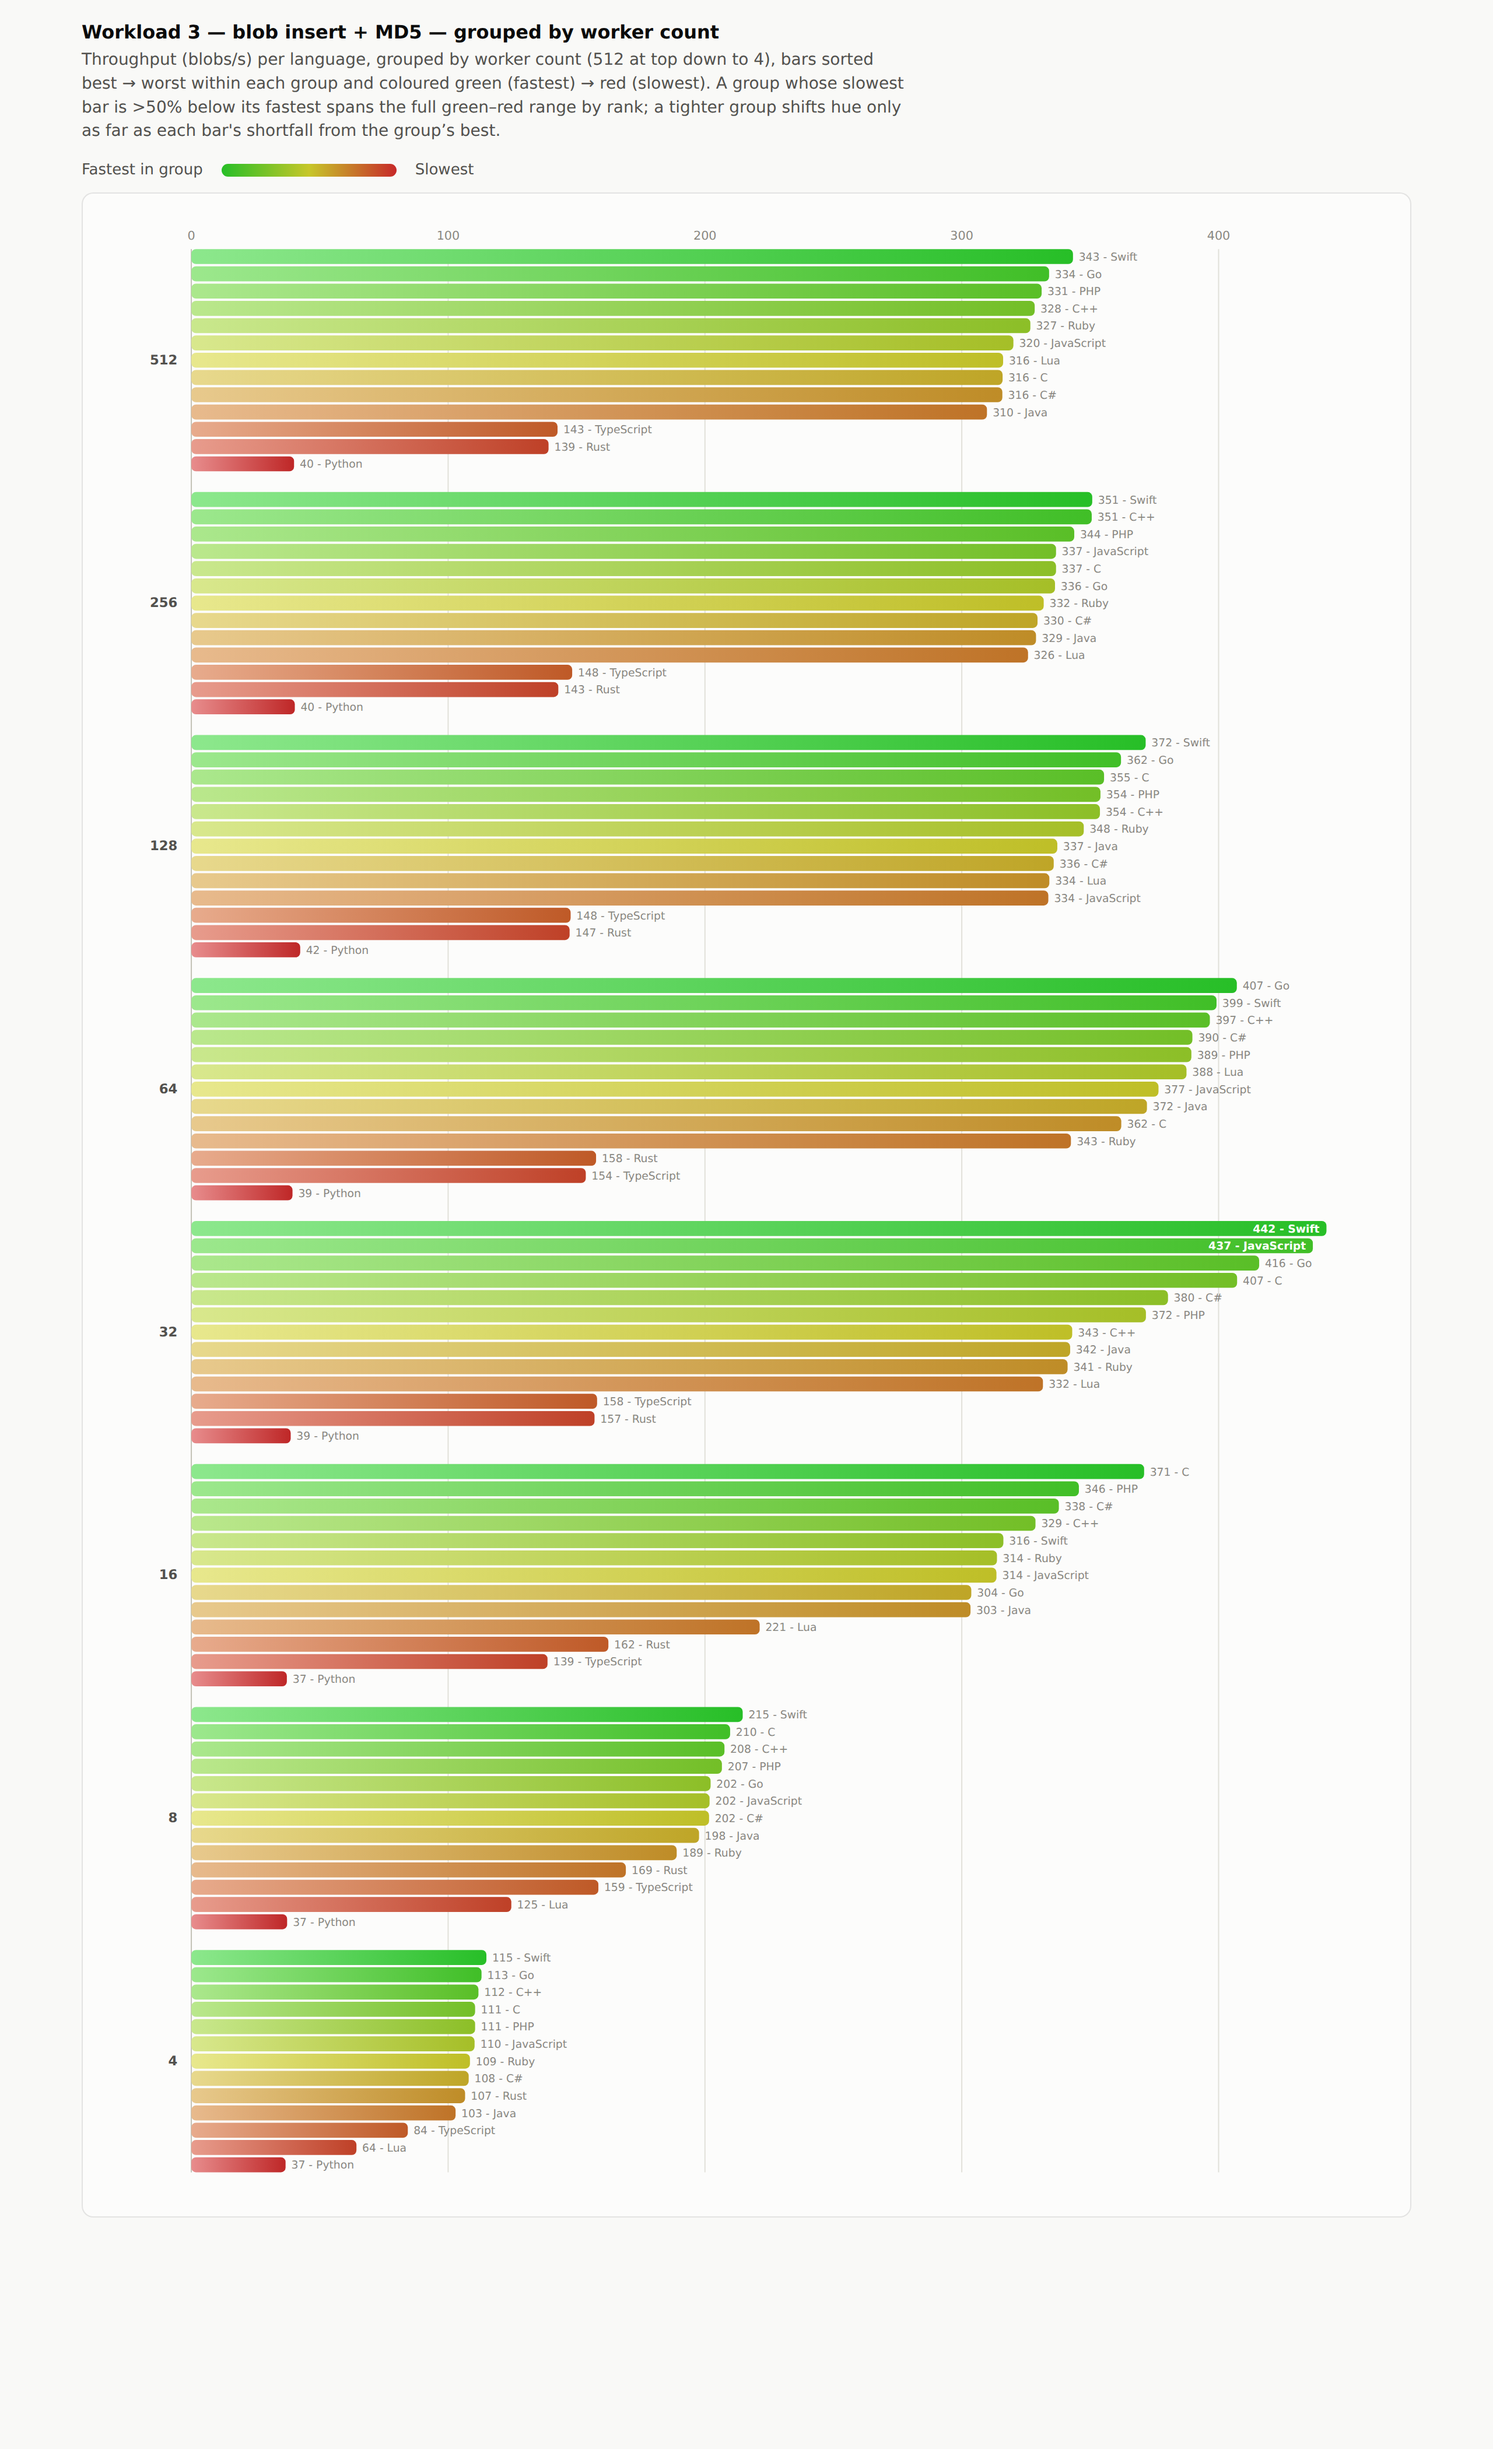
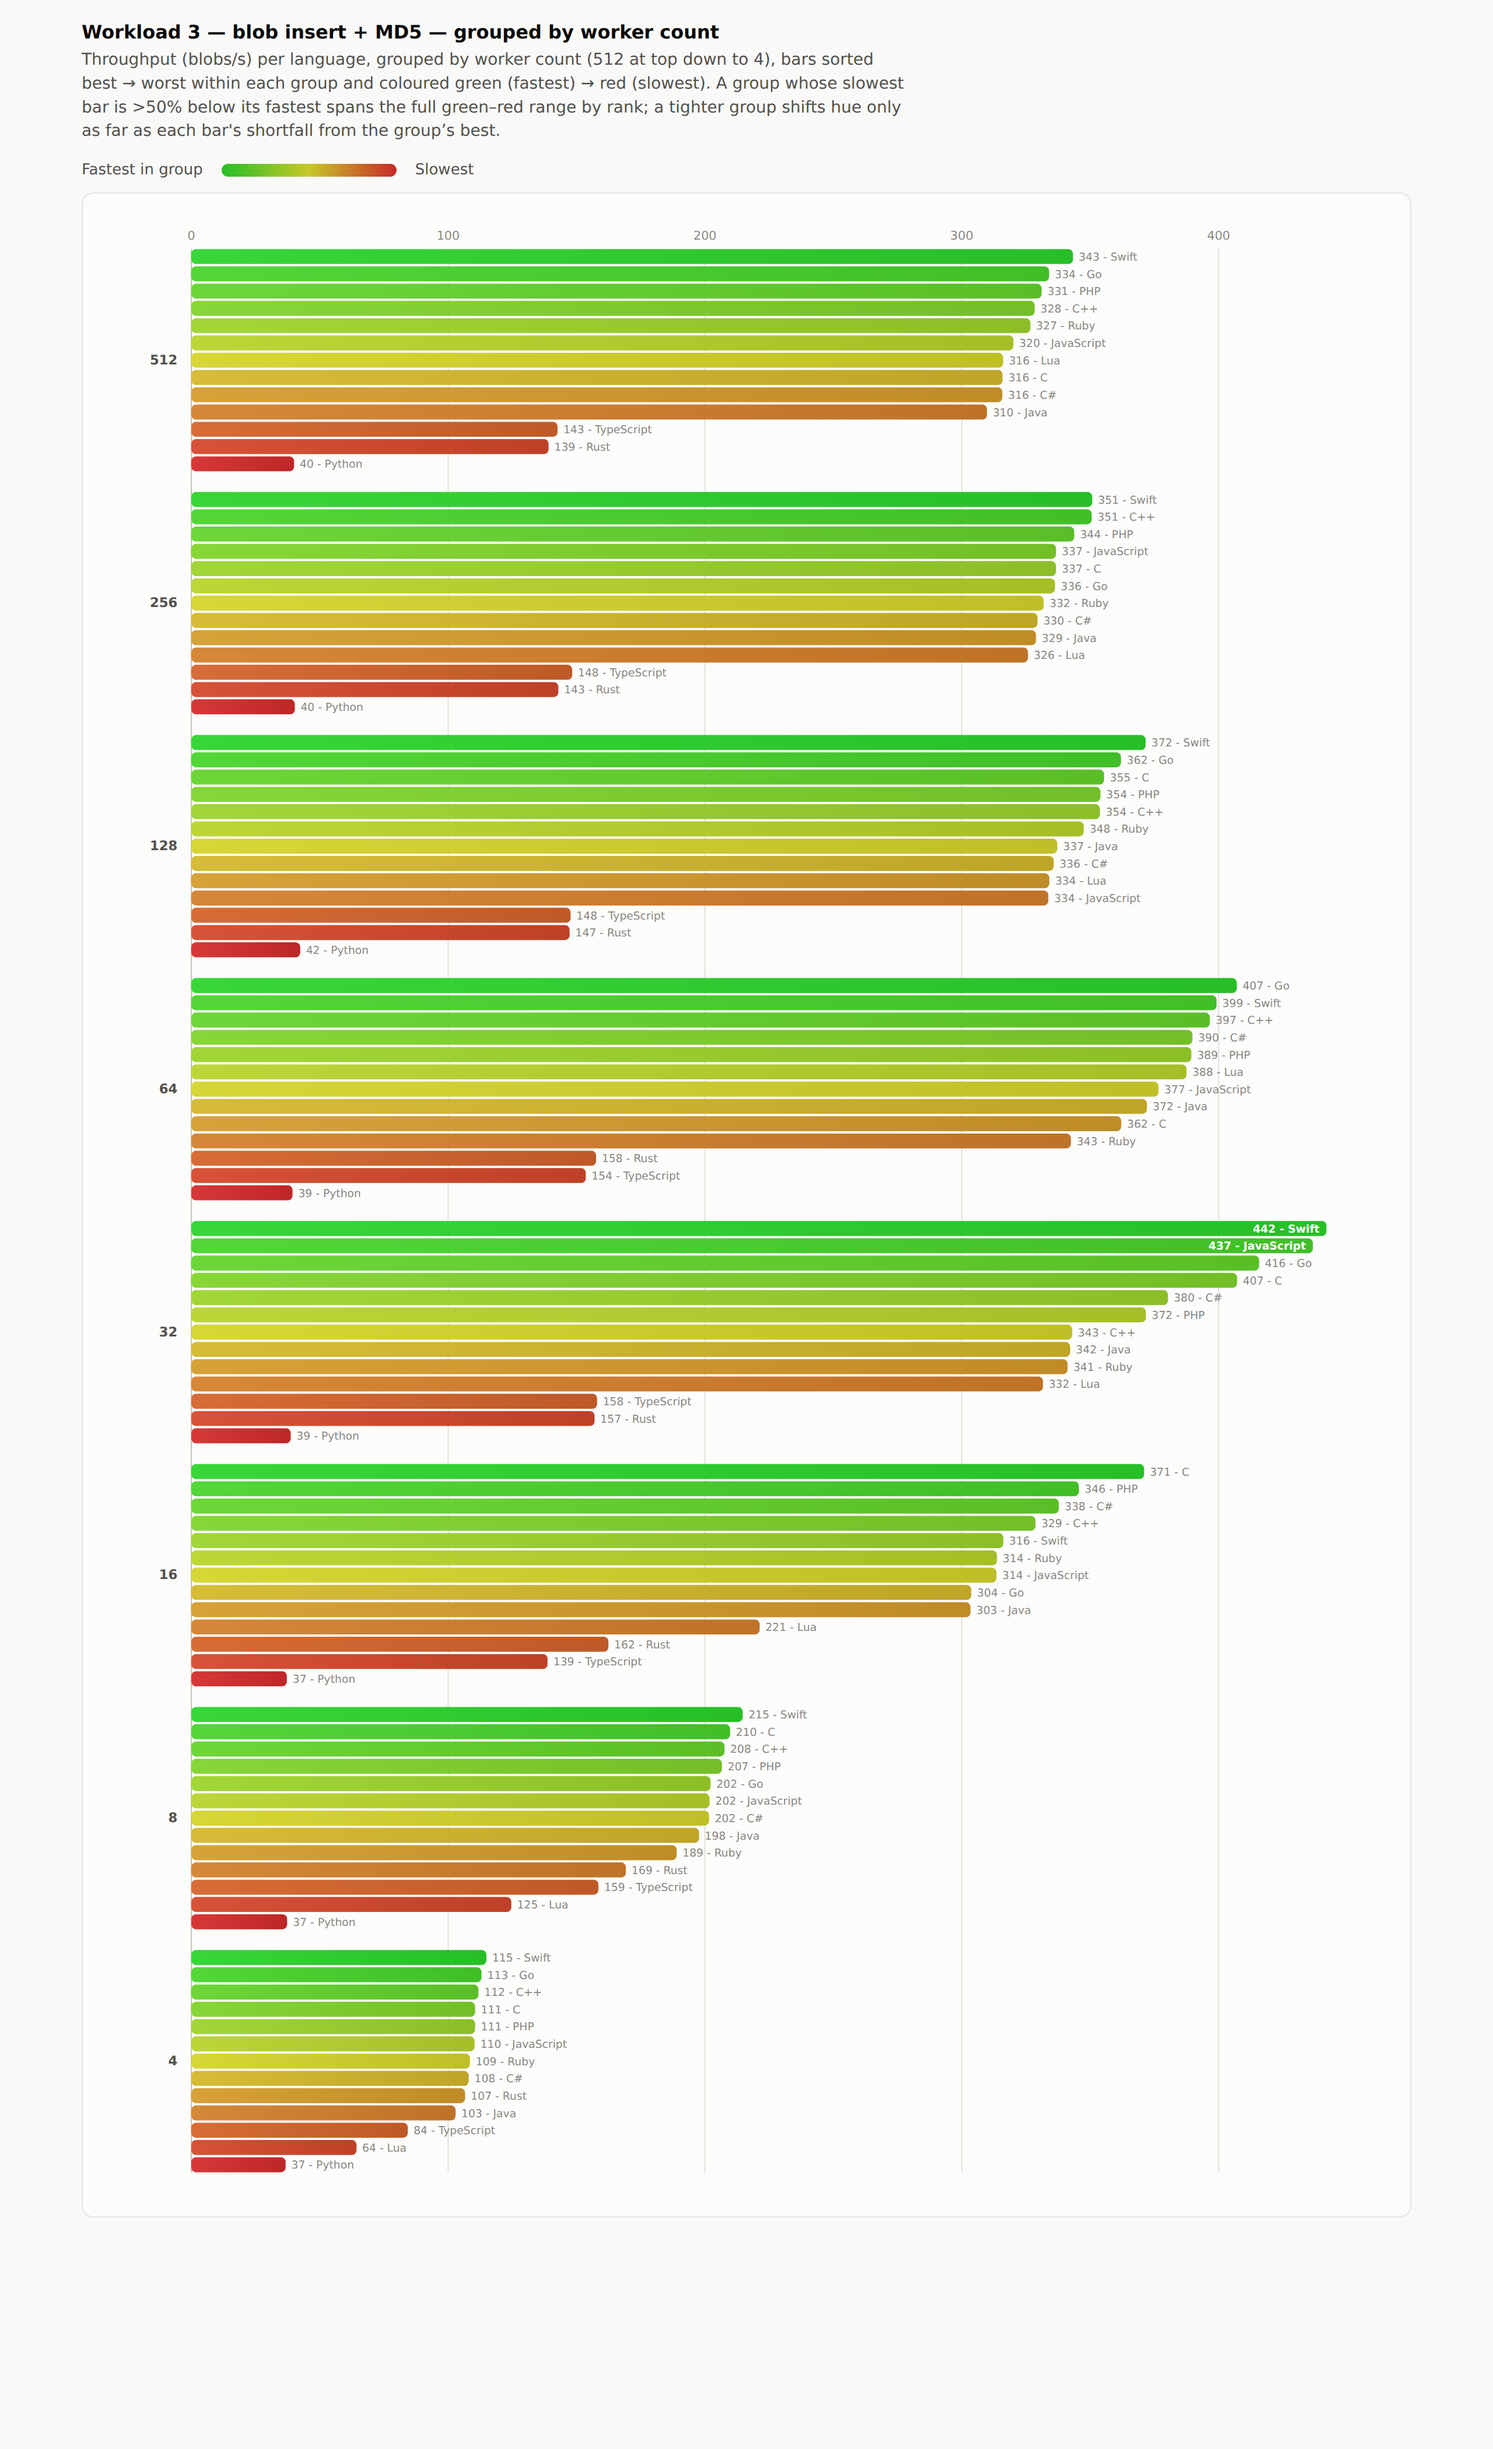
report: darken the left (start) stop of the bar gradient
Lower the gradient start-tint lightness from 73% to 53% so the left side of
each bar reads as a richer shade of its performance hue.

Changed region(s): [[0.125, 0.0936, 0.6875, 0.9045]]

diff --git a/report/report.html b/report/report.html
@@ -441,10 +441,10 @@ const PAGE_BARS = false;
     // run from a 50%-lighter tint at the bar start to the full hue at the tip.
     const gdefs = el("defs", {});
     svg.appendChild(gdefs);
-    // hsl helpers: `h` in degrees (120=green .. 0=red). The lighter stop lifts
-    // lightness halfway to white; both read on light and dark surfaces alike.
+    // hsl helpers: `h` in degrees (120=green .. 0=red). The left (start) stop is
+    // a lighter tint of the full hue; both read on light and dark surfaces alike.
     const perfFill = h => `hsl(${h.toFixed(1)}, 66%, 45%)`;
-    const perfTint = h => `hsl(${h.toFixed(1)}, 66%, 73%)`;
+    const perfTint = h => `hsl(${h.toFixed(1)}, 66%, 53%)`;
     // Throughput gridlines with tick labels along the top.
     for (let k=0; k*step<=yMax+1e-6; k++){ const tv=k*step, x=X(tv);
       svg.appendChild(el("line", { x1: x, x2: x, y1: BM.t, y2: BM.t+BIH, stroke: "var(--grid)", "stroke-width": 1 }));

diff --git a/report/bars.html b/report/bars.html
@@ -377,10 +377,10 @@ const PAGE_BARS = true;
     // run from a 50%-lighter tint at the bar start to the full hue at the tip.
     const gdefs = el("defs", {});
     svg.appendChild(gdefs);
-    // hsl helpers: `h` in degrees (120=green .. 0=red). The lighter stop lifts
-    // lightness halfway to white; both read on light and dark surfaces alike.
+    // hsl helpers: `h` in degrees (120=green .. 0=red). The left (start) stop is
+    // a lighter tint of the full hue; both read on light and dark surfaces alike.
     const perfFill = h => `hsl(${h.toFixed(1)}, 66%, 45%)`;
-    const perfTint = h => `hsl(${h.toFixed(1)}, 66%, 73%)`;
+    const perfTint = h => `hsl(${h.toFixed(1)}, 66%, 53%)`;
     // Throughput gridlines with tick labels along the top.
     for (let k=0; k*step<=yMax+1e-6; k++){ const tv=k*step, x=X(tv);
       svg.appendChild(el("line", { x1: x, x2: x, y1: BM.t, y2: BM.t+BIH, stroke: "var(--grid)", "stroke-width": 1 }));

diff --git a/report/generate_html_report.py b/report/generate_html_report.py
@@ -605,10 +605,10 @@ const PAGE_BARS = __PAGE_BARS__;
     // run from a 50%-lighter tint at the bar start to the full hue at the tip.
     const gdefs = el("defs", {});
     svg.appendChild(gdefs);
-    // hsl helpers: `h` in degrees (120=green .. 0=red). The lighter stop lifts
-    // lightness halfway to white; both read on light and dark surfaces alike.
+    // hsl helpers: `h` in degrees (120=green .. 0=red). The left (start) stop is
+    // a lighter tint of the full hue; both read on light and dark surfaces alike.
     const perfFill = h => `hsl(${h.toFixed(1)}, 66%, 45%)`;
-    const perfTint = h => `hsl(${h.toFixed(1)}, 66%, 73%)`;
+    const perfTint = h => `hsl(${h.toFixed(1)}, 66%, 53%)`;
     // Throughput gridlines with tick labels along the top.
     for (let k=0; k*step<=yMax+1e-6; k++){ const tv=k*step, x=X(tv);
       svg.appendChild(el("line", { x1: x, x2: x, y1: BM.t, y2: BM.t+BIH, stroke: "var(--grid)", "stroke-width": 1 }));
